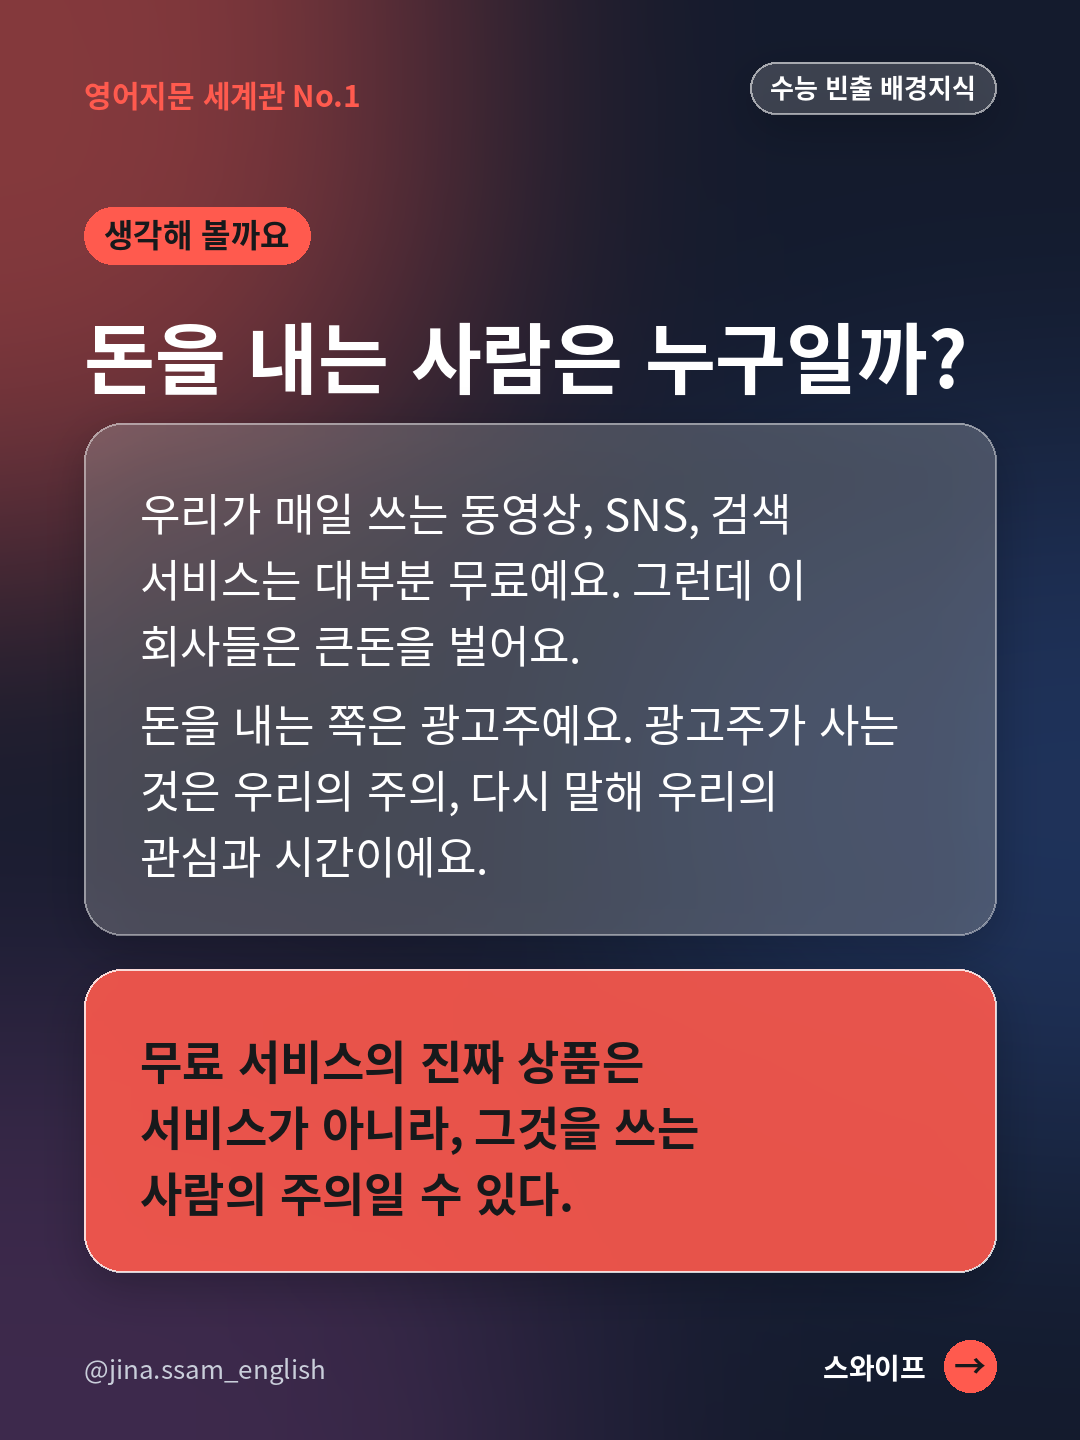
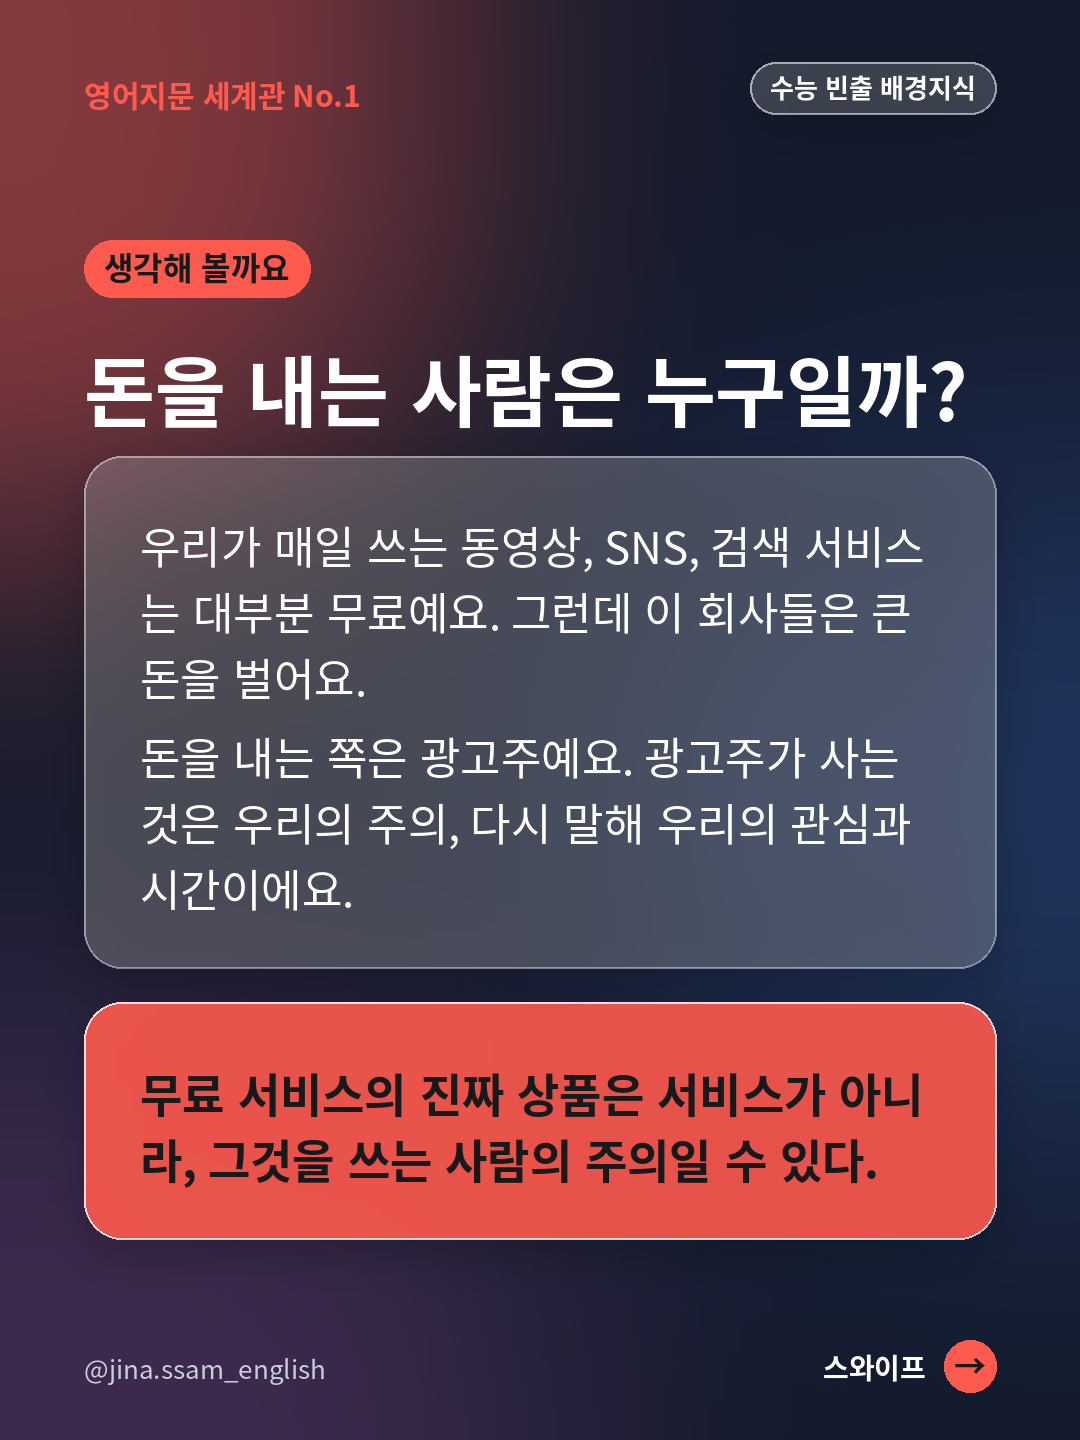
Wrap Korean text to the text-box edge instead of by word; re-render No.1 and No.2
Claude-Session: https://claude.ai/code/session_01Wy1t89MoYtcTzxhXFEcNJ8

Changed region(s): [[0.0611, 0.125, 0.9472, 0.9062]]

diff --git a/jina-carousel/engine.py b/jina-carousel/engine.py
@@ -19,35 +19,52 @@ _m=ImageDraw.Draw(Image.new('RGB',(4,4)))
 def gl(sz,b=True):
     bb=_m.textbbox((0,0),'가',font=F(sz,b)); return bb[1],bb[3]
 def tl(t,f): return _m.textlength(t,font=f)
+import re
+_HANGUL=re.compile(r'[\u1100-\u11FF\u3130-\u318F\uAC00-\uD7A3]')
+_CLOSE=set('.,?!:;)]}\u201d\u2019\u300d\u300f\u2026\u00b7%')
+_OPEN=set('\u201c\u2018\u300c\u300e([{')
+def _one(t,i):
+    n=len(t); j=i+1
+    if not _HANGUL.match(t[i]):
+        while j<n and t[j]!=' ' and not _HANGUL.match(t[j]): j+=1
+        if j<n and _HANGUL.match(t[j]): j+=1   # 영문·숫자 뒤의 조사/단위 한 글자는 붙인다 (29번, attention을)
+    while j<n and t[j] in _CLOSE: j+=1         # 줄 맨 앞에 마침표·닫는 따옴표가 오지 않게
+    return t[i:j]
+def _units(t):
+    out=[]; i=0; n=len(t)
+    while i<n:
+        c=t[i]
+        if c==' ': out.append(' '); i+=1; continue
+        k=i
+        while k<n and t[k] in _OPEN: k+=1       # 여는 따옴표는 다음 글자와 붙인다
+        if k<n and t[k]!=' ': u=t[i:k]+_one(t,k); out.append(u); i+=len(u)
+        elif k>i: out.append(t[i:k]); i=k
+        else: u=_one(t,i); out.append(u); i+=len(u)
+    return out
 def wrap(t,f,w):
-    # greedy wrap, then rebalance so a paragraph never ends with a very short orphan line
-    res=[]
-    for para in t.split('\n'):
-        ls=_wrap1(para,f,w)
-        if len(ls)>1 and tl(ls[-1],f)<0.35*w:
-            best=ls
-            for k in range(1,7):
-                cand=_wrap1(para,f,w*(1-0.04*k))
-                if len(cand)!=len(ls): break
-                best=cand
-                if tl(cand[-1],f)>=0.35*w: break
-            ls=best
-        res+=ls
-    return res
-def _wrap1(t,f,w):
+    """한글은 글자 단위로 상자 끝까지 채우고, 영어 단어는 쪼개지 않는다."""
     out=[]
     for para in t.split('\n'):
         cur=''
-        for word in para.split(' '):
-            cand=(cur+' '+word) if cur else word
-            if tl(cand,f)<=w: cur=cand; continue
-            if cur: out.append(cur)
-            cur=word
-            while tl(cur,f)>w:  # very long word: char split
-                i=len(cur)
-                while tl(cur[:i],f)>w: i-=1
-                out.append(cur[:i]); cur=cur[i:]
-        out.append(cur)
+        for u in _units(para):
+            if u==' ':
+                if cur and not cur.endswith(' '): cur+=' '
+                continue
+            if tl((cur+u).rstrip(),f)<=w: cur+=u; continue
+            if cur.strip(): out.append(cur.rstrip()); cur=''
+            if tl(u,f)>w:
+                piece=''
+                for ch in u:
+                    if tl(piece+ch,f)>w: out.append(piece); piece=ch
+                    else: piece+=ch
+                cur=piece
+            else: cur=u
+        out.append(cur.rstrip())
+        # 마지막 줄에 한두 글자만 남으면 앞 줄에서 두 글자를 내려 보낸다 (앞 줄은 거의 그대로 가득 참)
+        if len(out)>=2 and para.strip():
+            last=out[-1]; prev=out[-2]
+            if 0<len(last.replace(' ',''))<=2 and len(prev)>8 and all(_HANGUL.match(ch) for ch in prev[-2:]):
+                out[-2]=prev[:-2]; out[-1]=prev[-2:]+last
     return out
 def bg(th,seed):
     im=Image.new('RGB',(W,H),th.base); d=ImageDraw.Draw(im)

diff --git a/jina-carousel/RULES.md b/jina-carousel/RULES.md
@@ -46,7 +46,7 @@
 - 제목이 본문보다 지나치게 튀지 않게: 제목 70~96, 본문 38~42 기준(제목:본문 약 2:1).
 - 제목은 한 줄에 들어가면 한 줄로. 넘칠 때만 의미 단위로 줄바꿈.
 - 형광펜(강조 박스)은 실제 글자 위아래에 같은 여백을 두어 가운데 정렬. 강조 구간과 일반 글자 사이는 띄운다.
-- 문단 마지막 줄에 단어 한두 개만 남지 않게 줄을 다시 나눈다.
+- **줄바꿈은 사람이 텍스트 상자에 쓸 때처럼**: 한글은 글자 단위로 상자 끝에 닿을 때까지 채우고 넘어간다(띄어쓰기 단위로 일찍 끊지 않는다). 영어 단어는 쪼개지 않는다. 마침표·닫는 따옴표는 줄 맨 앞에 오지 않게, 숫자+단위(29번)는 붙이고, 마지막 줄에 한두 글자만 남지 않게 한다. 제목의 줄바꿈만 의미 단위로 직접 정한다.
 - 텍스트 넘침은 코드에서 assert로 막는다. 자동 줄바꿈은 측정된 폭 기준.
 - 렌더 후 반드시 이미지를 직접 보고 확인한다.
 
